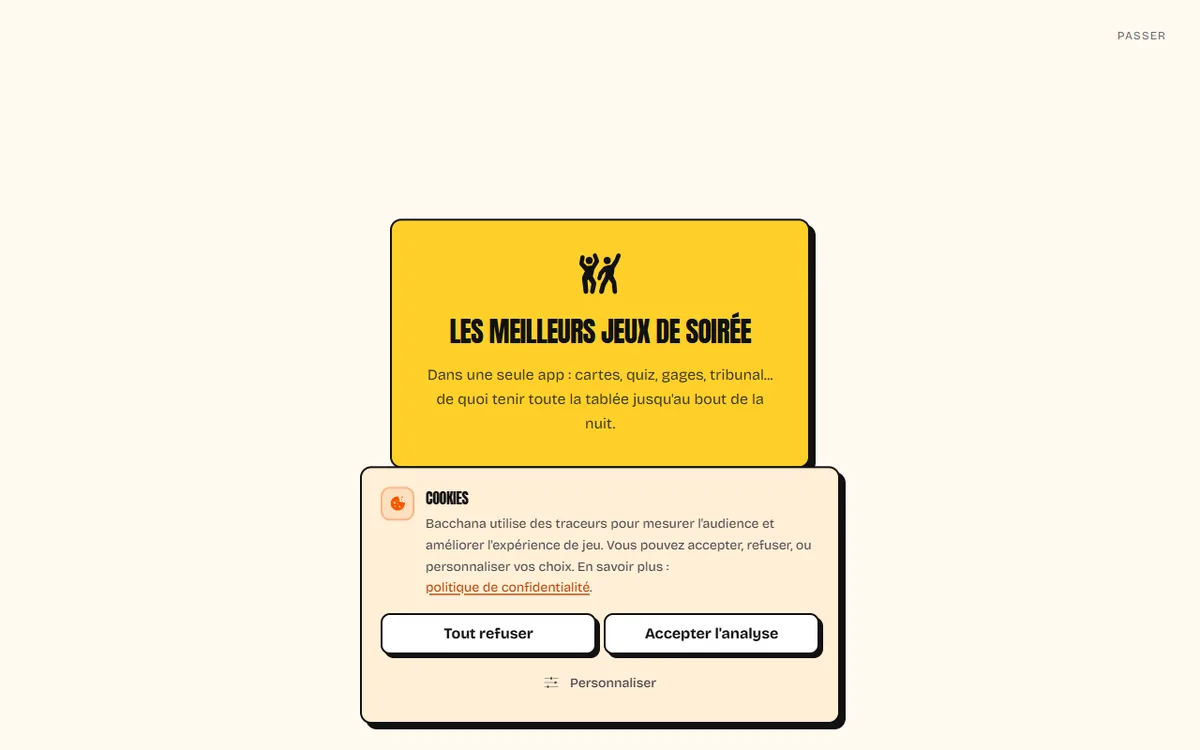
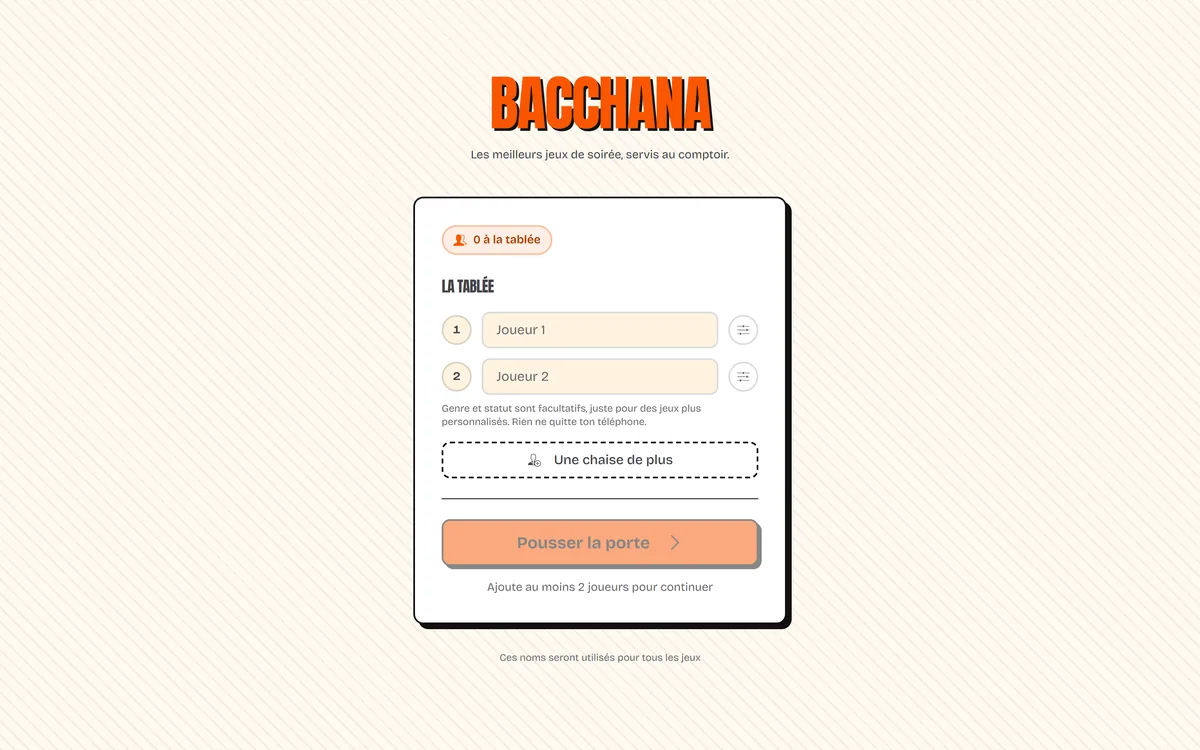
fix: show the actual products in the project shots (#23)
Both reference shots were captured on first load, so the homepage showed
Bacchana's onboarding carousel behind a cookie banner and Ohypnozen's page
blurred behind its guided tour. The studio's showcase proved that two consent
dialogs exist, and nothing else.

Add scripts/capture_shots.py, which replays a visitor's path before shooting:
skip the guide, decline the trackers, let the interface settle, then convert to
WebP. It replaces optimize_shots.py, which only converted and still looked for
its sources under the misspelled client name, so it would have reproduced
nothing.

The script also pins IPv4 resolution for the captured hosts: on a DNS64/NAT64
access, a domain with no AAAA record answers with a synthesized address that
does not route, and the capture failed on the network rather than on the site.

Drop two .pyc files tracked by accident, and add the missing ignore rule.

Changed region(s): [[0.2775, 0.2453, 0.7092, 0.9813], [0.4008, 0.092, 0.6167, 0.2147], [0.925, 0.0307, 0.9558, 0.0613]]

diff --git a/content/references.ts b/content/references.ts
@@ -21,9 +21,12 @@ export type Reference = {
   summary: string;
   url: string;
   /**
-   * Capture du projet, dans public/shots. Produite par une capture du site en
-   * ligne puis convertie en WebP (scripts/optimize_shots.py). Ce sont les
-   * projets d'Adam : aucune image de tiers n'est reprise.
+   * Capture du projet, dans public/shots. Produite par scripts/capture_shots.py,
+   * qui ouvre le site en ligne, ecarte le guide d'introduction et le bandeau de
+   * consentement, puis convertit en WebP. Ces deux ecrans avaient fini par etre
+   * tout ce que la vitrine montrait des projets : une capture prise au premier
+   * chargement ne prouve rien. Ce sont les projets d'Adam : aucune image de
+   * tiers n'est reprise.
    */
   shot: string;
   /** Ce que le projet prouve concretement, pas un adjectif. */

diff --git a/scripts/capture_shots.py b/scripts/capture_shots.py
@@ -1,0 +1,219 @@
+"""Capture les realisations en ligne et ecrit les vignettes du site.
+
+Pourquoi ce script existe : les captures affichees sur la page d'accueil
+montraient l'etat brut du premier chargement, c'est a dire l'ecran d'accueil
+de l'onboarding de Bacchana et le bandeau cookies par dessus. Une vitrine qui
+montre un bandeau de consentement au lieu du produit ne prouve rien. Le script
+rejoue donc le parcours d'un visiteur avant de declencher la capture : passer
+le guide d'introduction, refuser les traceurs, laisser l'interface se poser.
+
+Le refus des traceurs est deliberé : c'est le choix le plus sobre, il evite
+d'envoyer une visite artificielle dans la mesure d'audience du produit, et il
+garantit que la capture ne depend pas d'un script tiers charge apres coup.
+
+Sortie : public/shots/<slug>.webp, dimensionne pour la carte de realisation et
+converti pour ne pas faire payer la page d'accueil au visiteur mobile.
+
+Prerequis : python -m pip install playwright Pillow && python -m playwright
+install chromium
+
+Usage : python scripts/capture_shots.py [slug ...]
+        sans argument, toutes les realisations sont recapturees.
+"""
+
+from __future__ import annotations
+
+import socket
+import sys
+from dataclasses import dataclass, field
+from pathlib import Path
+from urllib.parse import urlparse
+
+try:
+    from PIL import Image
+except ImportError:
+    sys.exit(
+        "Pillow est requis pour la conversion WebP. Installer avec :\n"
+        "  python -m pip install Pillow"
+    )
+
+try:
+    from playwright.sync_api import Error as PlaywrightError
+    from playwright.sync_api import sync_playwright
+except ImportError:
+    sys.exit(
+        "Playwright est requis pour la capture. Installer avec :\n"
+        "  python -m pip install playwright && python -m playwright install chromium"
+    )
+
+ROOT = Path(__file__).resolve().parent.parent
+OUT_DIR = ROOT / "public" / "shots"
+
+# Fenetre de capture. Le rapport 16/10 cadre la carte de realisation sans bande
+# vide, et l'echelle 2 rend le texte net sur ecran a haute densite.
+VIEWPORT = {"width": 1440, "height": 900}
+SCALE = 2
+
+# Largeur d'affichage maximale de la carte, doublee pour la haute densite.
+TARGET_WIDTH = 1200
+
+
+@dataclass
+class Shot:
+    """Une realisation a capturer.
+
+    `dismiss` liste des libelles de boutons a cliquer avant la capture, dans
+    l'ordre. Un libelle absent n'est pas une erreur : l'onboarding ne s'affiche
+    qu'a la premiere visite, et le contexte de navigation est neuf a chaque run,
+    mais l'interface peut evoluer sans que la capture ait a echouer pour autant.
+    """
+
+    slug: str
+    url: str
+    dismiss: list[str] = field(default_factory=list)
+    settle_ms: int = 4000
+
+
+SHOTS = [
+    Shot(
+        slug="bacchana",
+        url="https://bacchana.beloucif.com",
+        # "Passer" saute le carrousel d'introduction, "Tout refuser" ecarte le
+        # bandeau cookies. Sans ces deux clics, la capture ne montre que le
+        # guide de bienvenue et le consentement, jamais le produit.
+        dismiss=["Passer", "Tout refuser"],
+    ),
+    Shot(
+        slug="ohypnozen",
+        url="https://ohypnozen.com",
+        # Le site ouvre sur une visite guidee modale qui floute toute la page
+        # derriere elle. "Ignorer le guide" la ferme ; sans ce clic, la vitrine
+        # du studio affiche un fond flou et une bulle de bienvenue.
+        dismiss=["Ignorer le guide", "Tout refuser"],
+    ),
+]
+
+
+def ipv4_resolver_rules(shots: list[Shot]) -> list[str]:
+    """Impose a Chromium la resolution IPv4 reelle des domaines a capturer.
+
+    Pourquoi : certains acces (dont la connexion depuis laquelle ce script a ete
+    ecrit) font du DNS64/NAT64. Un domaine qui n'a qu'un enregistrement A, comme
+    l'apex ohypnozen.com, se voit alors repondre une adresse IPv6 synthetisee du
+    prefixe 64:ff9b::/96 que la passerelle ne route pas : le navigateur attend
+    puis abandonne, alors que le site repond parfaitement en IPv4. Sans cette
+    regle, la capture echoue sur le reseau et non sur le site.
+
+    L'adresse est resolue a chaque execution, jamais figee dans le fichier : si
+    l'hebergeur change d'IP, le script suit. Un domaine qui ne resout pas du tout
+    est laisse tel quel, pour que l'echec soit visible au chargement plutot que
+    masque ici.
+    """
+    rules = []
+    for host in sorted({urlparse(shot.url).hostname for shot in shots if shot.url}):
+        try:
+            infos = socket.getaddrinfo(host, 443, socket.AF_INET, socket.SOCK_STREAM)
+        except OSError:
+            continue
+        rules.append(f"MAP {host} {infos[0][4][0]}")
+    return rules
+
+
+def capture(page, shot: Shot, raw_path: Path) -> None:
+    # "load" et non "networkidle" : les deux sites gardent des connexions
+    # ouvertes (mesure d'audience, rafraichissement), l'inactivite reseau
+    # n'arrive donc jamais et l'attente expirerait a coup sur.
+    page.goto(shot.url, wait_until="load", timeout=60_000)
+    page.wait_for_timeout(2_000)
+
+    for label in shot.dismiss:
+        # Les deux sites melangent boutons et liens pour ces raccourcis, d'ou
+        # l'essai des deux roles avant de tomber sur le simple texte.
+        candidates = [
+            page.get_by_role("button", name=label, exact=False).first,
+            page.get_by_role("link", name=label, exact=False).first,
+            page.get_by_text(label, exact=False).first,
+        ]
+        for candidate in candidates:
+            try:
+                candidate.click(timeout=3_000)
+                page.wait_for_timeout(1_200)
+                break
+            except PlaywrightError:
+                continue
+        else:
+            print(f"  note : \"{label}\" introuvable, capture sans ce clic")
+
+    page.wait_for_timeout(shot.settle_ms)
+    page.screenshot(path=str(raw_path))
+
+
+def to_webp(raw_path: Path, target: Path) -> str:
+    image = Image.open(raw_path).convert("RGB")
+
+    if image.width > TARGET_WIDTH:
+        height = round(image.height * TARGET_WIDTH / image.width)
+        image = image.resize((TARGET_WIDTH, height), Image.LANCZOS)
+
+    image.save(target, "WEBP", quality=82, method=6)
+    return f"{target.stat().st_size // 1024} Ko ({image.width}x{image.height})"
+
+
+def main(argv: list[str]) -> int:
+    wanted = set(argv[1:])
+    todo = [s for s in SHOTS if not wanted or s.slug in wanted]
+
+    unknown = wanted - {s.slug for s in SHOTS}
+    if unknown:
+        sys.exit(f"Realisation inconnue : {', '.join(sorted(unknown))}")
+
+    OUT_DIR.mkdir(parents=True, exist_ok=True)
+    raw_dir = ROOT / "screenshots"
+    raw_dir.mkdir(exist_ok=True)
+
+    failed: list[str] = []
+
+    rules = ipv4_resolver_rules(todo)
+
+    with sync_playwright() as playwright:
+        browser = playwright.chromium.launch(
+            args=[f"--host-resolver-rules={','.join(rules)}"] if rules else [],
+        )
+        for shot in todo:
+            print(f"{shot.slug} : {shot.url}")
+            raw_path = raw_dir / f"shot-{shot.slug}.png"
+            page = browser.new_page(
+                viewport=VIEWPORT,
+                device_scale_factor=SCALE,
+                locale="fr-FR",
+            )
+            try:
+                capture(page, shot, raw_path)
+            except PlaywrightError as error:
+                # Un site injoignable n'est pas une raison d'abandonner les
+                # autres captures, et surtout pas d'ecraser la vignette
+                # existante par une page d'erreur.
+                first_line = str(error).splitlines()[0]
+                print(f"  ECHEC : {first_line}")
+                failed.append(shot.slug)
+                continue
+            finally:
+                page.close()
+
+            print(f"  {shot.slug}.webp : {to_webp(raw_path, OUT_DIR / f'{shot.slug}.webp')}")
+        browser.close()
+
+    if failed:
+        print(
+            f"\n{len(failed)} capture(s) non produite(s) : {', '.join(failed)}."
+            "\nLa vignette precedente est conservee : verifier que le site est"
+            " bien en ligne avant de relancer."
+        )
+        return 1
+
+    print(f"\n{len(todo)} capture(s) ecrite(s) dans public/shots")
+    return 0
+
+
+if __name__ == "__main__":
+    raise SystemExit(main(sys.argv))

diff --git a/CHANGELOG.md b/CHANGELOG.md
@@ -6,6 +6,35 @@ Regle de lecture : une entree decrit ce qui change pour quelqu'un qui utilise le
 site ou reprend le depot, pas la liste des fichiers touches. Le detail technique
 est dans les messages de commit et les pull requests.
 
+## 0.3.1 - 2026-08-14
+
+### Corrige
+
+- **Les deux captures de realisations ne montraient pas les projets.** Celle de
+  Bacchana affichait l'ecran d'accueil de son guide d'introduction avec le
+  bandeau cookies par dessus, celle d'Ohypnozen la page floutee derriere sa
+  visite guidee. La vitrine du studio prouvait donc l'existence de deux bandeaux
+  de consentement, et rien d'autre. Les captures montrent desormais l'interface
+  reelle des deux produits.
+
+### Ajoute
+
+- `scripts/capture_shots.py`, qui rejoue le parcours d'un visiteur avant de
+  declencher la capture : passer le guide, refuser les traceurs, laisser
+  l'interface se poser, puis convertir en WebP. Il remplace
+  `scripts/optimize_shots.py`, qui se contentait de convertir et cherchait
+  encore ses fichiers sources sous l'ancienne orthographe fautive du nom de la
+  cliente, donc n'aurait rien reproduit du tout.
+- Le script force la resolution IPv4 des domaines captures : sur un acces qui
+  fait du DNS64/NAT64, un domaine sans enregistrement IPv6 se voit repondre une
+  adresse synthetisee qui ne route pas, et la capture echouait sur le reseau
+  plutot que sur le site.
+
+### Retire
+
+- Deux fichiers `.pyc` suivis par accident dans `scripts/__pycache__`, et la
+  regle `.gitignore` qui manquait pour les tenir dehors.
+
 ## 0.3.0 - 2026-08-11
 
 ### Ajoute

diff --git a/README.md b/README.md
@@ -1,6 +1,6 @@
 # BLF Lab's - site officiel
 
-Version 0.3.0
+Version 0.3.1
 
 <!-- adam-badges:start -->
 [![verification](https://img.shields.io/github/actions/workflow/status/Adam-Blf/blf-labs-site/ci.yml?branch=main&style=flat-square&label=verification)](https://github.com/Adam-Blf/blf-labs-site/actions/workflows/ci.yml)
@@ -160,7 +160,7 @@ Tout asset genere a son script reproductible, aucun n&rsquo;embarque de secret :
 | `scripts/check_encoding.py` | Garde : UTF-8 propre, sans BOM ni mojibake. Executee en CI |
 | `scripts/check_french.py` | Garde : accents manquants dans le texte visible. `--fix` pour appliquer. Executee en CI |
 | `scripts/clean_svg.py` | Retire les metadonnees des SVG exportes de Canva |
-| `scripts/optimize_shots.py` | Convertit les captures en WebP |
+| `scripts/capture_shots.py` | Recapture les realisations en ligne, guide d'introduction et bandeau cookies ecartes, et ecrit les vignettes WebP |
 
 Les identifiants sont lus dans un fichier d&rsquo;environnement **hors depot**
 et ne sont jamais affiches, meme en cas d&rsquo;erreur.
